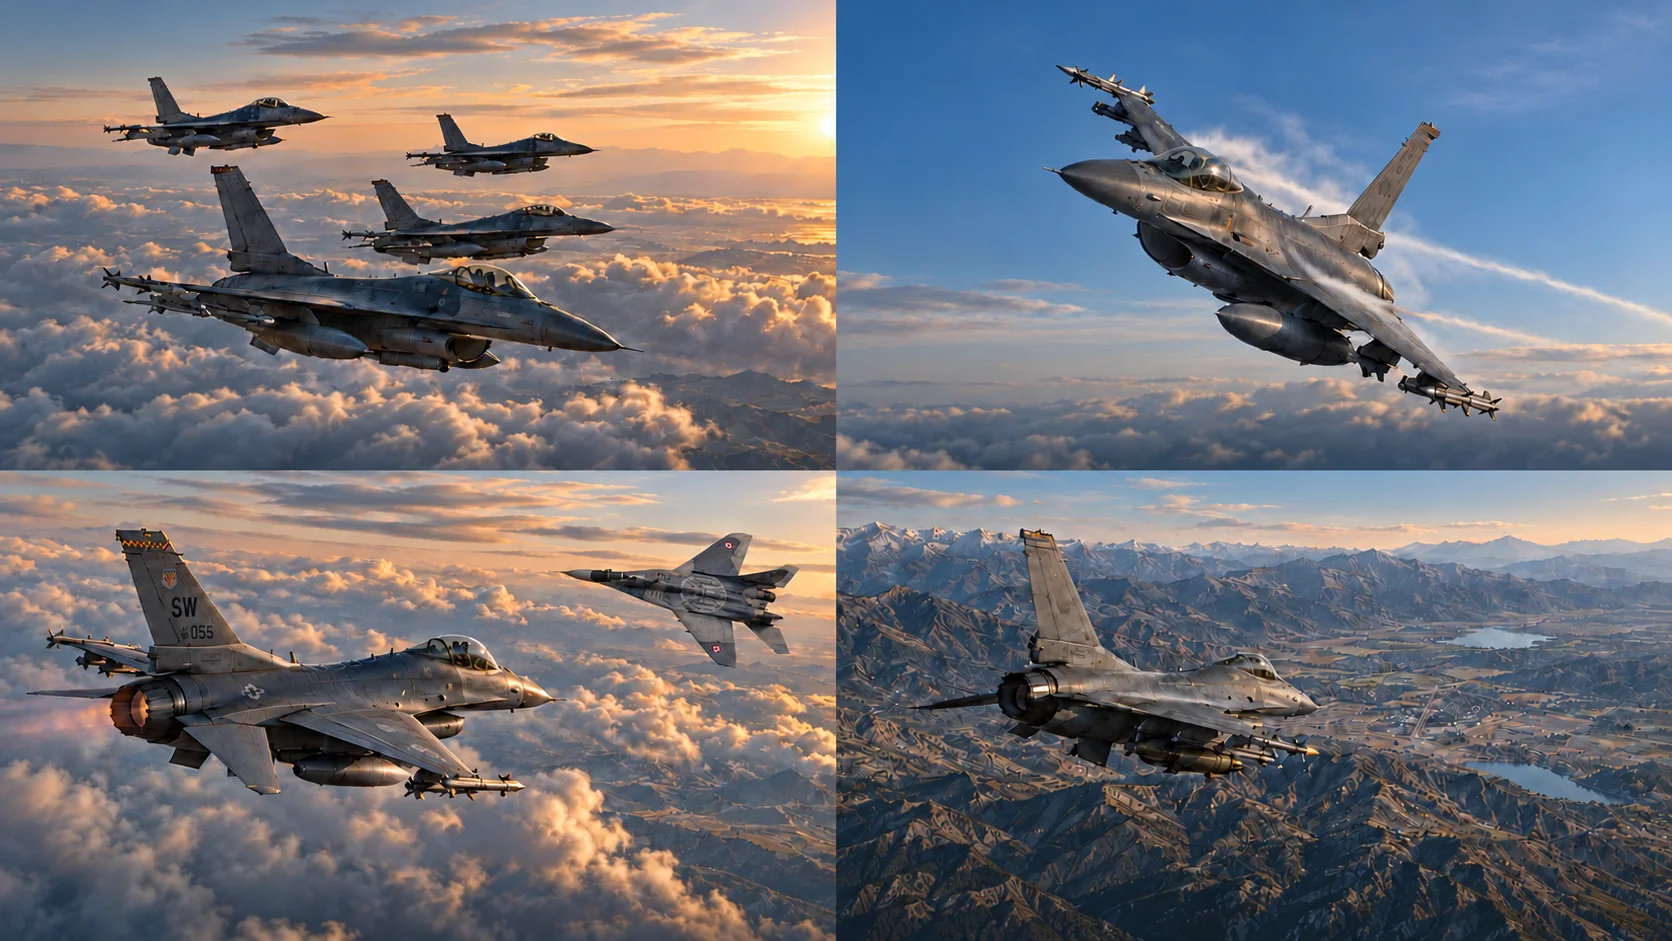
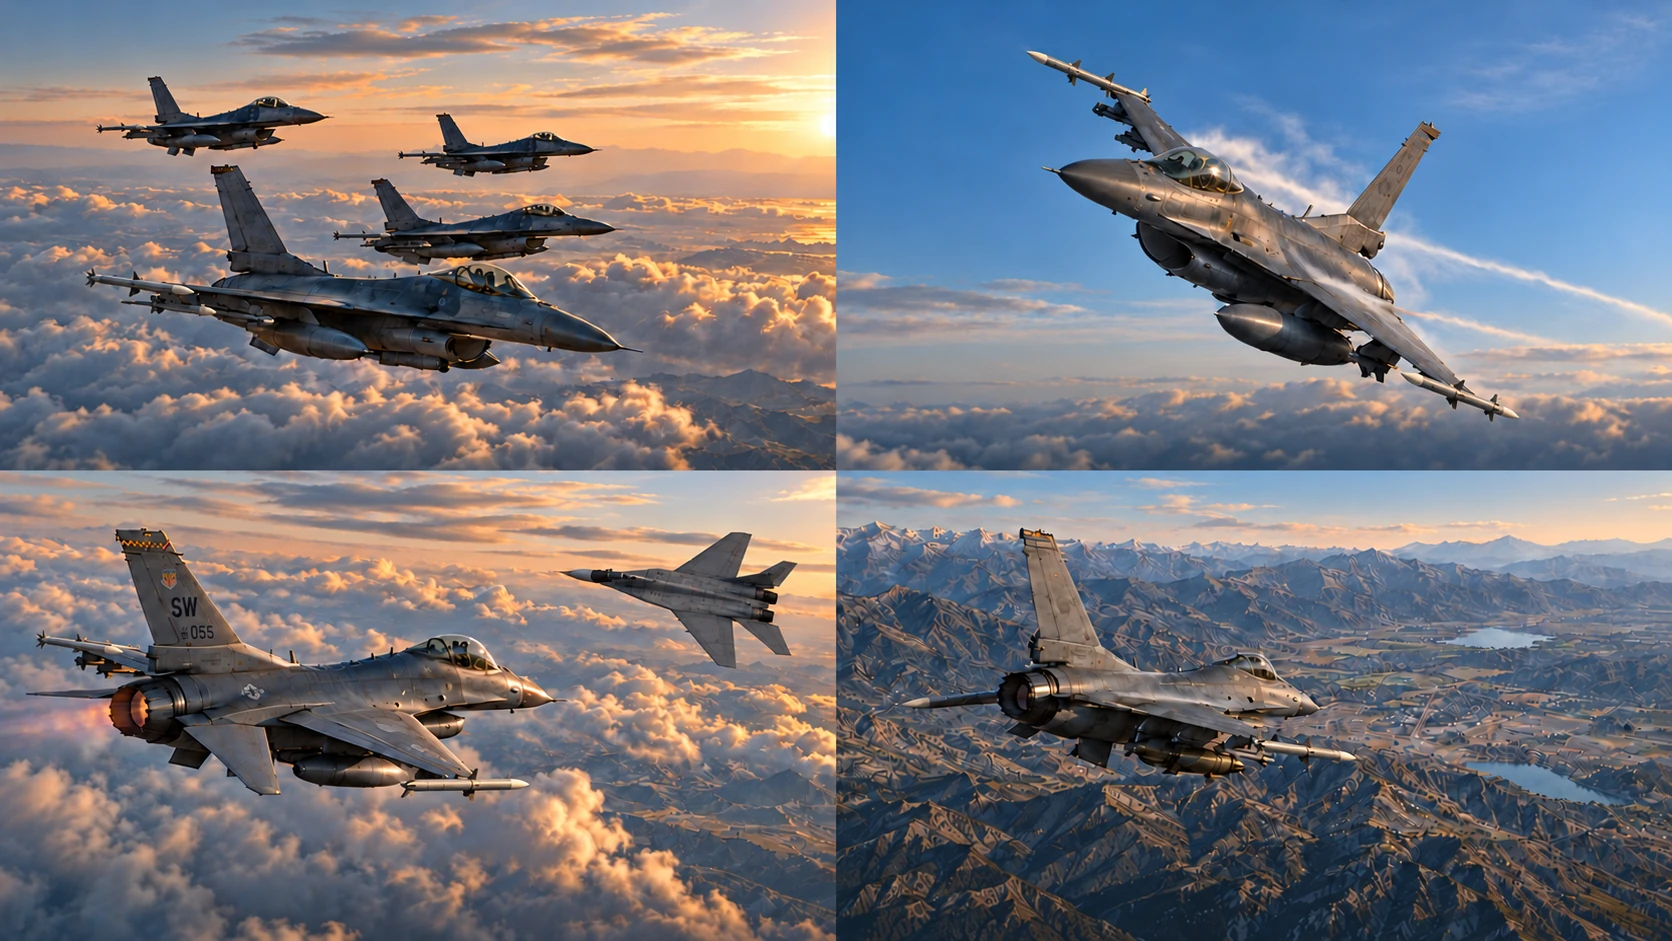
Publish revised aircraft imagery from a86711cd51d8

diff --git a/index.html b/index.html
@@ -13,29 +13,29 @@
   <header class="masthead"><a class="brand" href="./">7th VFW Wolfpack</a><span class="brand-divider" aria-hidden="true"></span><span class="product">Combat Sim Tools</span></header>
   <main class="portals" aria-label="Combat Sim Tools 주요 메뉴">
     <section class="portal introduction">
-      <div class="photo" aria-hidden="true"><img src="assets/flight-atlas.webp" alt="" fetchpriority="high" width="1672" height="941"></div>
+      <div class="photo" aria-hidden="true"><img src="assets/flight-atlas.webp?v=20261027-aircraft" alt="" fetchpriority="high" width="1672" height="941"></div>
       <button class="portal-link" type="button" data-open="about" aria-haspopup="dialog"><span class="copy"><span class="eyebrow">Introduction</span><span class="heading">7th VFW Wolfpack<span class="subtitle">&amp; Combat Sim Tools</span></span></span><span class="arrow" aria-hidden="true">↗</span></button>
     </section>
     <section class="portal basic">
-      <div class="photo" aria-hidden="true"><img src="assets/flight-atlas.webp" alt="" width="1672" height="941"></div>
+      <div class="photo" aria-hidden="true"><img src="assets/flight-atlas.webp?v=20261027-aircraft" alt="" width="1672" height="941"></div>
       <button class="portal-link" type="button" data-open="basic" aria-haspopup="dialog"><span class="copy"><span class="eyebrow">Flight Fundamentals</span><span class="heading">Basic Maneuvers</span></span><span class="arrow" aria-hidden="true">↗</span></button>
     </section>
     <section class="portal air">
-      <div class="photo" aria-hidden="true"><img src="assets/flight-atlas.webp" alt="" width="1672" height="941"></div>
+      <div class="photo" aria-hidden="true"><img src="assets/flight-atlas.webp?v=20261027-aircraft" alt="" width="1672" height="941"></div>
       <button class="portal-link" type="button" data-open="air" aria-haspopup="dialog"><span class="copy"><span class="eyebrow">Air Combat</span><span class="heading">Air to Air</span></span><span class="arrow" aria-hidden="true">↗</span></button>
     </section>
     <section class="portal ground">
-      <div class="photo" aria-hidden="true"><img src="assets/flight-atlas.webp" alt="" width="1672" height="941"></div>
+      <div class="photo" aria-hidden="true"><img src="assets/flight-atlas.webp?v=20261027-aircraft" alt="" width="1672" height="941"></div>
       <button class="portal-link" type="button" data-open="ground" aria-haspopup="dialog"><span class="copy"><span class="eyebrow">Strike &amp; Profiles</span><span class="heading">Air to Ground</span></span><span class="arrow" aria-hidden="true">↗</span></button>
-      <nav class="quicklinks" aria-label="공대지 도구 바로가기"><a href="https://shaft-wp.github.io/bdp-ui-preview/">BDP</a><a href="https://shaft-wp.github.io/offset-ui-preview/box/">BOX</a><a href="https://shaft-wp.github.io/offset-ui-preview/">OFFSET</a><a href="https://shaft-wp.github.io/offset-ui-preview/wheel/">WHEEL BOX</a></nav>
+      <nav class="quicklinks" aria-label="공대지 도구 바로가기"><a href="https://shaft-wp.github.io/bdp-ui-preview/">BDP</a><a href="https://shaft-wp.github.io/offset-ui-preview/box/">BOX</a><a href="https://shaft-wp.github.io/offset-ui-preview/">OFFSET</a><a href="https://shaft-wp.github.io/offset-ui-preview/wheel-box/">WHEEL BOX</a></nav>
     </section>
   </main>
   <footer><span>For flight simulation · BMS / DCS</span><button type="button" data-open="credits">이미지 출처</button></footer>
   <dialog id="about" aria-labelledby="about-title"><button type="button" class="close" aria-label="닫기">×</button><span class="eyebrow">Introduction</span><h1 id="about-title">7th VFW Wolfpack</h1><p>비행 시뮬레이션을 함께 즐기는 울프팩입니다.</p><h2>Combat Sim Tools</h2><p>기본 기동부터 공대공·공대지까지, 비행 준비와 연습에 필요한 도구를 한곳에 모았습니다. 각 메뉴에서 원하는 분야를 선택해보세요.</p><p class="note">BMS·DCS 비행 시뮬레이션을 위한 도구입니다. 연결된 도구의 Preview·Work 및 모델 검증 상태는 각 페이지에서 확인하실 수 있습니다.</p></dialog>
   <dialog id="basic" aria-labelledby="basic-title"><button type="button" class="close" aria-label="닫기">×</button><span class="eyebrow">Flight Fundamentals</span><h1 id="basic-title">Basic Maneuvers</h1><p>기본 비행과 기동을 위한 도구를 준비하고 있습니다.</p><span class="status">준비 중</span></dialog>
   <dialog id="air" aria-labelledby="air-title"><button type="button" class="close" aria-label="닫기">×</button><span class="eyebrow">Air Combat</span><h1 id="air-title">Air to Air</h1><div class="tools"><a class="tool" href="https://shaft-wp.github.io/aim120b-ui-preview/"><span><strong>AIM-120B</strong><small>궤적 연구 뷰어 · Public Preview</small></span><span aria-hidden="true">↗</span></a></div><p class="note">연구 모델의 가정과 검증 범위는 해당 도구에서 확인해주세요.</p></dialog>
-  <dialog id="ground" aria-labelledby="ground-title"><button type="button" class="close" aria-label="닫기">×</button><span class="eyebrow">Strike &amp; Profiles</span><h1 id="ground-title">Air to Ground</h1><div class="tools"><a class="tool" href="https://shaft-wp.github.io/bdp-ui-preview/"><span><strong>BDP</strong><small>Bomb Delivery Planner · Public Preview</small></span><span aria-hidden="true">↗</span></a><a class="tool" href="https://shaft-wp.github.io/offset-ui-preview/box/"><span><strong>BOX</strong><small>BOX Pattern · Public Preview</small></span><span aria-hidden="true">↗</span></a><a class="tool" href="https://shaft-wp.github.io/offset-ui-preview/"><span><strong>OFFSET</strong><small>Offset Bombing · Public Preview</small></span><span aria-hidden="true">↗</span></a><a class="tool" href="https://shaft-wp.github.io/offset-ui-preview/wheel/"><span><strong>WHEEL BOX</strong><small>WHEEL BOX · Public Preview</small></span><span aria-hidden="true">↗</span></a></div></dialog>
-  <dialog id="credits" aria-labelledby="credits-title"><button type="button" class="close" aria-label="닫기">×</button><span class="eyebrow">Image Credits</span><h1 id="credits-title">이미지 출처</h1><p>대표 이미지는 디자인 시안을 바탕으로 생성한 이미지입니다.</p><p>Air to Air의 MiG-29A 형상은 Julian Herzog의 사진을 참조했습니다. 기체 크기·배경·색감이 변경된 파생 이미지입니다.</p><p><a href="https://commons.wikimedia.org/wiki/File:105_Polish_Air_Force_MiG-29A_Fulcrum_ILA_Berlin_2016_10.jpg">참고 사진 · Julian Herzog / Wikimedia Commons</a></p><p><a href="https://creativecommons.org/licenses/by/4.0/">Creative Commons Attribution 4.0</a></p></dialog>
-  <noscript><p class="noscript">도구 바로가기: <a href="https://shaft-wp.github.io/bdp-ui-preview/">BDP</a> · <a href="https://shaft-wp.github.io/offset-ui-preview/box/">BOX</a> · <a href="https://shaft-wp.github.io/offset-ui-preview/">OFFSET</a> · <a href="https://shaft-wp.github.io/offset-ui-preview/wheel/">WHEEL BOX</a> · <a href="https://shaft-wp.github.io/aim120b-ui-preview/">AIM-120B</a></p></noscript>
+  <dialog id="ground" aria-labelledby="ground-title"><button type="button" class="close" aria-label="닫기">×</button><span class="eyebrow">Strike &amp; Profiles</span><h1 id="ground-title">Air to Ground</h1><div class="tools"><a class="tool" href="https://shaft-wp.github.io/bdp-ui-preview/"><span><strong>BDP</strong><small>Bomb Delivery Planner · Public Preview</small></span><span aria-hidden="true">↗</span></a><a class="tool" href="https://shaft-wp.github.io/offset-ui-preview/box/"><span><strong>BOX</strong><small>BOX Pattern · Public Preview</small></span><span aria-hidden="true">↗</span></a><a class="tool" href="https://shaft-wp.github.io/offset-ui-preview/"><span><strong>OFFSET</strong><small>Offset Bombing · Public Preview</small></span><span aria-hidden="true">↗</span></a><a class="tool" href="https://shaft-wp.github.io/offset-ui-preview/wheel-box/"><span><strong>WHEEL BOX</strong><small>WHEEL BOX · Public Preview</small></span><span aria-hidden="true">↗</span></a></div></dialog>
+  <dialog id="credits" aria-labelledby="credits-title"><button type="button" class="close" aria-label="닫기">×</button><span class="eyebrow">Image Credits</span><h1 id="credits-title">이미지 출처</h1><p>대표 이미지는 디자인 시안을 바탕으로 생성한 이미지입니다.</p><p>Air to Air의 MiG-29A 형상은 Julian Herzog의 사진을 참조했습니다. 기체 크기·배경·색감을 변경하고 등면 및 날개의 마킹을 제거한 파생 이미지입니다.</p><p><a href="https://commons.wikimedia.org/wiki/File:105_Polish_Air_Force_MiG-29A_Fulcrum_ILA_Berlin_2016_10.jpg">참고 사진 · Julian Herzog / Wikimedia Commons</a></p><p><a href="https://creativecommons.org/licenses/by/4.0/">Creative Commons Attribution 4.0</a></p></dialog>
+  <noscript><p class="noscript">도구 바로가기: <a href="https://shaft-wp.github.io/bdp-ui-preview/">BDP</a> · <a href="https://shaft-wp.github.io/offset-ui-preview/box/">BOX</a> · <a href="https://shaft-wp.github.io/offset-ui-preview/">OFFSET</a> · <a href="https://shaft-wp.github.io/offset-ui-preview/wheel-box/">WHEEL BOX</a> · <a href="https://shaft-wp.github.io/aim120b-ui-preview/">AIM-120B</a></p></noscript>
 </body>
 </html>

diff --git a/assets/CREDITS.md b/assets/CREDITS.md
@@ -8,6 +8,8 @@ The MiG-29A image in the Air to Air quadrant is adapted from:
 - Title: 105 Polish Air Force MiG-29A Fulcrum ILA Berlin 2016 10.jpg
 - Source: https://commons.wikimedia.org/wiki/File:105_Polish_Air_Force_MiG-29A_Fulcrum_ILA_Berlin_2016_10.jpg
 - License: Creative Commons Attribution 4.0 International, https://creativecommons.org/licenses/by/4.0/
-- Changes: scaled aircraft, replacement background, relighting/color adaptation, inclusion in generated composite.
+- Changes: scaled aircraft, replacement background, relighting/color adaptation, inclusion in generated composite, removal of dorsal and wing markings (2026-10-27).
 
 The reference photographer does not endorse this website. Attribution is also accessible from the homepage footer.
+
+2026-10-27: F-16 AMRAAM exterior shapes retouched in the generated atlas; the original four-panel composition is retained.
